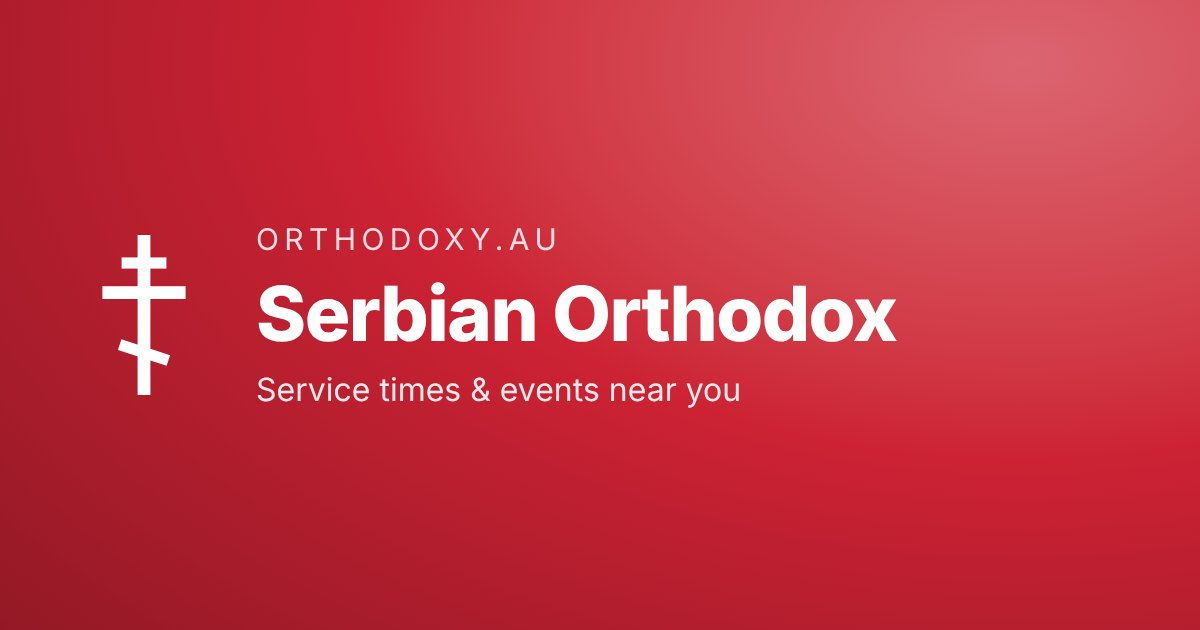
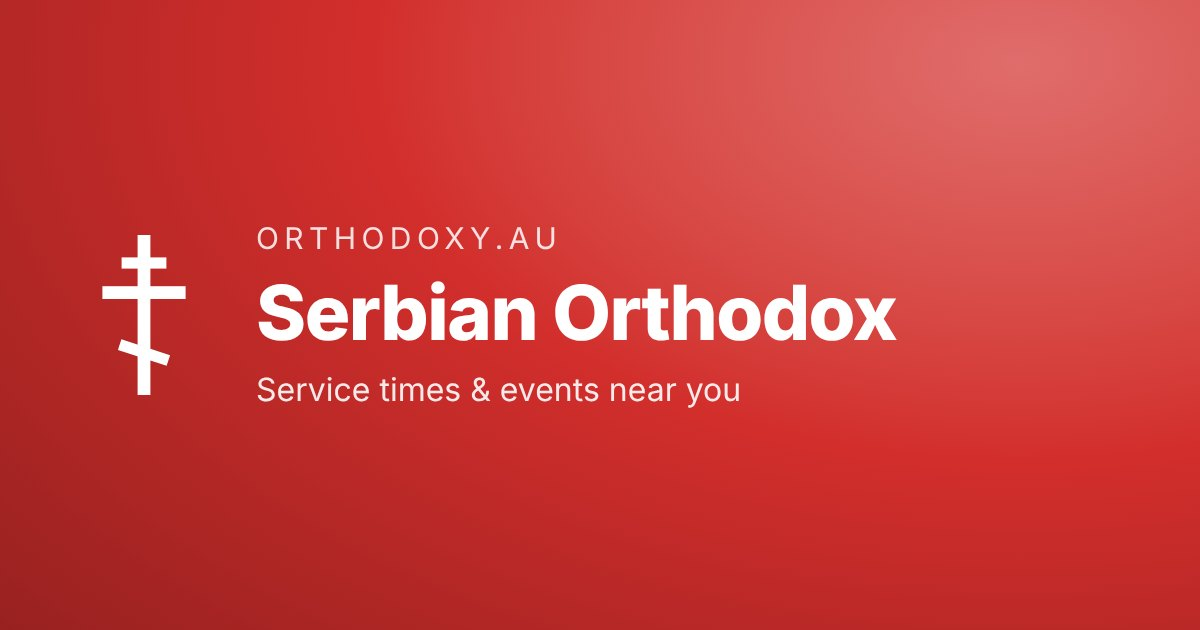
Colours: flag-blue Greek, electric location blue, clearer jurisdictions and event types
Jurisdictions (file defaults; /admin → Colours rows still override):
Greek is the Greek flag's blue #0d5eaf, Antiochian a brighter violet so
the deeper Greek stays apart for red–green colour-blind readers, Serbian
a clear red, Russian a true orange, Romanian a deeper green, Macedonian
toward cerise (away from Serbian, today's closest pair).

The app's blue (--accent) is Greek's on purpose; location (--dist, the
distances, the edge and pin, the map's dot) is the electric #007aff /
#0a84ff in dark. Event types: Feast gold, Talk terracotta, Youth teal,
Social deep green, in event-types.js and /admin's badges. Language
tints and link-preview cards follow the jurisdictions.

Claude-Session: https://claude.ai/code/session_01GRnuCAkqgzuA5eBzxvzaM2

diff --git a/public/shared/event-types.js b/public/shared/event-types.js
@@ -26,17 +26,23 @@
 
   // Each kind's colours — the type dot on a card, the badge in a drawer, the
   // kind picker's chips — as [background, text], in light and in dark. One
-  // table, so a kind looks the same wherever it is named (app.css's
-  // .badge-<kind> rules carry the same pairs, for the markup that has no JS).
+  // table, so a kind looks the same wherever it is named (/admin's .k-<kind>
+  // badges carry the same pairs, for the markup that has no JS).
+  //
+  // Feast gold, Talk terracotta, Youth teal, Social deep green (Kevin, 13 Nov
+  // 2026). Until then Feast and Talk were one gold, Youth was Prayer's blue,
+  // and Social was Romanian's green. Each event type's text colour is now at
+  // least 7.5 from every other's and about 10 from every jurisdiction's
+  // (jurisdiction-colors.js), so a row's word and its line do not read as one.
   const COLORS = {
     light: {
-      liturgy: ['#e8d5e8', '#6b2d6b'], prayer: ['#d5e0f0', '#2d4a7a'], feast: ['#f5ecd0', '#7a6520'],
-      talk: ['#f0e8d5', '#7a5a20'], youth: ['#d0e8f5', '#2d5a8a'], social: ['#d5ead5', '#2d6a2d'],
+      liturgy: ['#e8d5e8', '#6b2d6b'], prayer: ['#d5e0f0', '#2d4a7a'], feast: ['#f1e7ce', '#896a00'],
+      talk: ['#fee1d6', '#8d3c18'], youth: ['#d2eef1', '#006169'], social: ['#dbeedb', '#15561d'],
       other: ['#e8e8e8', '#555555'],
     },
     dark: {
-      liturgy: ['#3a2840', '#d4a3d4'], prayer: ['#1f2a3a', '#9bb8e0'], feast: ['#3a3220', '#d4c082'],
-      talk: ['#3a2f1c', '#d4b682'], youth: ['#1c303d', '#a8c8de'], social: ['#1f2e1f', '#a3c8a3'],
+      liturgy: ['#3a2840', '#d4a3d4'], prayer: ['#1f2a3a', '#9bb8e0'], feast: ['#362d13', '#d9bb68'],
+      talk: ['#40271d', '#f9a686'], youth: ['#163336', '#71cfd9'], social: ['#213322', '#95cf96'],
       other: ['#26272c', '#aaaaaa'],
     },
   };
@@ -51,9 +57,9 @@
   // The kinds a row of the Calendar, Today or search says in a word under its
   // time. A liturgy's or a prayer's name already says what it is ("Divine
   // Liturgy", "Vespers"), and "Other" says nothing; a feast's "Great Vespers"
-  // or a social's "Paniyiri" does not. Said in words, not a colour: Feast and
-  // Talk, Prayer and Youth are too near in colour to tell apart on their own,
-  // and a row's colour is its jurisdiction's.
+  // or a social's "Paniyiri" does not. Said in words, not a colour: a row's
+  // colour is its jurisdiction's, and a word is read where a colour beside
+  // another is only compared.
   const ROW_WORD_KINDS = ['feast', 'talk', 'youth', 'social'];
   /** 'feast' -> 'Feast'; '' for a kind its row does not say. */
   const rowWord = (id) => (ROW_WORD_KINDS.includes(id) ? eventTypeLabel(id) : '');

diff --git a/public/admin.html b/public/admin.html
@@ -28,7 +28,7 @@
       --radius: 10px;
       --radius-sm: 6px;
       /* The main app's blue, so the two surfaces read as one product. */
-      --accent: #2c6cb4;
+      --accent: #0d5eaf;
       --accent-bg: #e8f0fa;
       --accent-text: #1f5696;
       --accent-ring: rgba(44,108,180,0.22);
@@ -56,7 +56,7 @@
         --backdrop: rgba(0,0,0,0.65);
         --soft-bg: #1f2026;
         --raw-bg: #1f2026;
-        --accent: #5b8fd6;
+        --accent: #58a1f7;
         --accent-bg: #1c2638;
         --accent-text: #9cc0f0;
         --accent-ring: rgba(91,143,214,0.3);
@@ -568,13 +568,13 @@
     .k-vespers    { --kb-bg: #dde6f4; --kb-fg: #2d4a7a; }
     .k-paraklesis { --kb-bg: #dcecf0; --kb-fg: #1f5a66; }
     .k-compline   { --kb-bg: #e2e0f4; --kb-fg: #3e3a80; }
-    .k-bible-study{ --kb-bg: #f3ead6; --kb-fg: #7a5a20; }
+    .k-bible-study{ --kb-bg: #fee1d6; --kb-fg: #8d3c18; }
     .k-confession { --kb-bg: #f6e0e6; --kb-fg: #8a2f4a; }
-    .k-feast      { --kb-bg: #f5ecd0; --kb-fg: #7a6520; }
+    .k-feast      { --kb-bg: #f1e7ce; --kb-fg: #896a00; }
     .k-prayer     { --kb-bg: #dde6f4; --kb-fg: #2d4a7a; }
-    .k-talk       { --kb-bg: #f0e8d5; --kb-fg: #7a5a20; }
-    .k-youth      { --kb-bg: #d8ebf6; --kb-fg: #2d5a8a; }
-    .k-social     { --kb-bg: #d9ecd9; --kb-fg: #2d6a2d; }
+    .k-talk       { --kb-bg: #fee1d6; --kb-fg: #8d3c18; }
+    .k-youth      { --kb-bg: #d2eef1; --kb-fg: #006169; }
+    .k-social     { --kb-bg: #dbeedb; --kb-fg: #15561d; }
     .k-other      { --kb-bg: #ececef; --kb-fg: #555a62; }
     @media (prefers-color-scheme: dark) {
       .k-liturgy    { --kb-bg: #3a2840; --kb-fg: #d4a3d4; }
@@ -582,11 +582,11 @@
       .k-vespers, .k-prayer { --kb-bg: #1f2a3a; --kb-fg: #9bb8e0; }
       .k-paraklesis { --kb-bg: #1b3035; --kb-fg: #92c8d2; }
       .k-compline   { --kb-bg: #26243d; --kb-fg: #b2acec; }
-      .k-bible-study, .k-talk { --kb-bg: #3a2f1c; --kb-fg: #d4b682; }
+      .k-bible-study, .k-talk { --kb-bg: #40271d; --kb-fg: #f9a686; }
       .k-confession { --kb-bg: #3a2029; --kb-fg: #e6a3b8; }
-      .k-feast      { --kb-bg: #3a3220; --kb-fg: #d4c082; }
-      .k-youth      { --kb-bg: #1c303d; --kb-fg: #a8c8de; }
-      .k-social     { --kb-bg: #1f2e1f; --kb-fg: #a3c8a3; }
+      .k-feast      { --kb-bg: #362d13; --kb-fg: #d9bb68; }
+      .k-youth      { --kb-bg: #163336; --kb-fg: #71cfd9; }
+      .k-social     { --kb-bg: #213322; --kb-fg: #95cf96; }
       .k-other      { --kb-bg: #26272c; --kb-fg: #aaaaaa; }
     }
     .pill .kb-dot { width: 9px; height: 9px; }

diff --git a/public/next/next.css b/public/next/next.css
@@ -14,9 +14,12 @@
   --line: rgba(60, 60, 67, 0.14);
   /* Today's rows, a hairline you can see. */
   --line-strong: rgba(60, 60, 67, 0.26);
-  --accent: #2c6cb4;
-  /* A distance from you, as the app's are. */
-  --dist: #2196f3;
+  /* The app's own blue is Greek's (jurisdiction-colors.js), on purpose: most
+     of the parishes are Greek (Kevin, 13 Nov 2026). */
+  --accent: #0d5eaf;
+  /* You: your distances, the edge and its pin, your dot on the map. The
+     electric blue phones use for where you are, kept clear of Greek's. */
+  --dist: #007aff;
   --live: #2fb350;
   --evening: #2c3d72;
   /* Hairlines, and the app's own tokens for the pieces taken from it. */
@@ -62,8 +65,10 @@
     --text-3: #6f6f78;
     --line: rgba(255, 255, 255, 0.10);
     --line-strong: rgba(255, 255, 255, 0.20);
-    --accent: #5b8fd6;
-    --dist: #4aa8f7;
+    /* Greek as dark mode lifts it (liftForDark), and the phone's dark-mode
+       location blue. */
+    --accent: #58a1f7;
+    --dist: #0a84ff;
     --live: #38c75c;
     --evening: #8ba3d4;
     --hair: rgba(255, 255, 255, 0.12);
@@ -426,16 +431,16 @@ body.map-full .map-fs .fs-close { display: block; }
   border-radius: 999px;
   pointer-events: none;
 }
-/* How far, in the app's blues: the nearer, the deeper (app.css). On the dark
-   scheme, the nearer the brighter and more saturated; far fades toward grey.
-   Wherever a distance is said. */
-.distance-near { color: #1565c0; }
-.distance-mid { color: #42a5f5; }
-.distance-far { color: #90caf9; }
+/* How far, in the location blue (--dist): the nearer, the more electric; far
+   fades, lighter on the light scheme and toward grey on the dark. Every step
+   is kept clear of Greek's blue. Wherever a distance is said. */
+.distance-near { color: #007aff; }
+.distance-mid { color: #4da3ff; }
+.distance-far { color: #a3cbff; }
 @media (prefers-color-scheme: dark) {
-  .distance-near { color: #47adff; }
-  .distance-mid { color: #5b95cc; }
-  .distance-far { color: #6c8399; }
+  .distance-near { color: #0a84ff; }
+  .distance-mid { color: #3a76b8; }
+  .distance-far { color: #5a7591; }
 }
 /* How far, lighter than the words beside it (Kevin, 12 Nov 2026): its blue says it. */
 .dist { font-weight: 500; font-variant-numeric: tabular-nums; white-space: nowrap; }

diff --git a/public/shared/jurisdiction-colors.js b/public/shared/jurisdiction-colors.js
@@ -17,17 +17,28 @@
 // those. See the note in map.js on why its dots and labels read jurisdiction
 // and nothing else.
 (function (root) {
-  // What production shows, as set in /admin in October 2026. The defaults had
-  // drifted from it entirely — Antiochian navy against the purple everyone
-  // sees — and the lite pages, which read the table before the overrides
-  // reached them, showed the stale set.
+  // Chosen together in November 2026 (Kevin, 13 Nov), to be told apart at a
+  // glance on a 2px line or a 5px dot: every pair at least 10 apart (OKLab
+  // ΔE×100) in light and in dark (liftForDark below), and at least 7 for
+  // red–green colour-blind readers. Today the closest pair is Serbian and
+  // Macedonian.
+  //   greek       the Greek flag's blue. The page's links and buttons
+  //               (--accent in next.css) are the same blue, on purpose; your
+  //               location (--dist) is a separate, electric blue.
+  //   antiochian  a bright violet: a deeper purple beside that Greek looks
+  //               the same colour to a red–green colour-blind reader.
+  //   serbian     a clear red; macedonian toward cerise, away from it.
+  //   russian     a true orange; romanian a deep green, darker than
+  //               Serbian's red and away from the green of "on now".
+  // A change here is a change for every link preview too: re-run
+  // scripts/build-og-images.mjs. /admin → Colours can still override one.
   const JURISDICTION_COLORS = {
-    antiochian: '#7c3bc1',
-    greek: '#0061fe',
-    serbian: '#cc2234',
-    russian: '#d38301',
-    romanian: '#4e7a27',
-    macedonian: '#b92d5d',
+    antiochian: '#8d52e3',
+    greek: '#0d5eaf',
+    serbian: '#d22e2c',
+    russian: '#e47c01',
+    romanian: '#40731a',
+    macedonian: '#b94082',
   };
 
   // 'other' is in the schema's CHECK but not in the table: a jurisdiction with

diff --git a/public/shared/languages.js b/public/shared/languages.js
@@ -19,13 +19,13 @@
 (function (root) {
   const LANGUAGES = [
     { name: 'English', short: 'English', slug: 'english', glyph: 'En', tint: '#1d4ed8' },
-    { name: 'Greek', short: 'Greek', slug: 'greek', glyph: 'Ελ', tint: '#0061fe' },
-    { name: 'Arabic', short: 'Arabic', slug: 'arabic', glyph: 'عر', tint: '#7c3bc1' },
-    { name: 'Serbian', short: 'Serbian', slug: 'serbian', glyph: 'Ср', tint: '#cc2234' },
-    { name: 'Church Slavonic', short: 'Slavonic', slug: 'slavonic', glyph: 'Сл', tint: '#d38301',
+    { name: 'Greek', short: 'Greek', slug: 'greek', glyph: 'Ελ', tint: '#0d5eaf' },
+    { name: 'Arabic', short: 'Arabic', slug: 'arabic', glyph: 'عر', tint: '#8d52e3' },
+    { name: 'Serbian', short: 'Serbian', slug: 'serbian', glyph: 'Ср', tint: '#d22e2c' },
+    { name: 'Church Slavonic', short: 'Slavonic', slug: 'slavonic', glyph: 'Сл', tint: '#e47c01',
       aliases: ['slavonic', 'russian', 'church-slavonic', 'old church slavonic'] },
-    { name: 'Romanian', short: 'Romanian', slug: 'romanian', glyph: 'Ro', tint: '#4e7a27' },
-    { name: 'Macedonian', short: 'Macedonian', slug: 'macedonian', glyph: 'Мк', tint: '#b92d5d' },
+    { name: 'Romanian', short: 'Romanian', slug: 'romanian', glyph: 'Ro', tint: '#40731a' },
+    { name: 'Macedonian', short: 'Macedonian', slug: 'macedonian', glyph: 'Мк', tint: '#b94082' },
     { name: 'Ukrainian', short: 'Ukrainian', slug: 'ukrainian', glyph: 'Ук', tint: '#0e7490' },
   ];
   const NAMES = LANGUAGES.map(l => l.name);

diff --git a/public/map.js b/public/map.js
@@ -724,7 +724,8 @@ function addUserLocSourceAndLayer(state) {
     source: USER_SOURCE,
     paint: {
       'circle-radius': 4.5,
-      'circle-color': '#4285f4',
+      // The location blue (--dist in next.css): you are this colour everywhere.
+      'circle-color': '#007aff',
       'circle-stroke-color': '#ffffff',
       'circle-stroke-width': 2
     }

diff --git a/docs/architecture.md b/docs/architecture.md
@@ -351,6 +351,15 @@ about Greek. `jurisdiction_colors` in D1 does not make it four: it holds only
 the rows */admin* → Colours has deliberately changed, absence means the file's
 value, and a reset deletes the row rather than writing the default into it.
 
+**Two blues, one job each.** The page's own blue (`--accent` in `next.css`:
+links, buttons) is Greek's, on purpose: most of the parishes are Greek. Where
+you are (`--dist`: the distances, the edge between the map and Today and its
+pin, and your dot in `map.js`) is the electric blue phones use for location,
+kept apart from Greek's in both schemes. The six jurisdictions, the event types
+(`event-types.js`) and these two were chosen together in November 2026, at
+least 10 apart (OKLab ΔE×100) where they sit side by side; a change to one is
+checked against the rest.
+
 **Parishes have no colour of their own.** `public/bundle.js` puts the
 jurisdiction's colour on every parish as `color` the moment the bundle lands —
 before the join copies it onto rules and events as `parish_color` — so every
